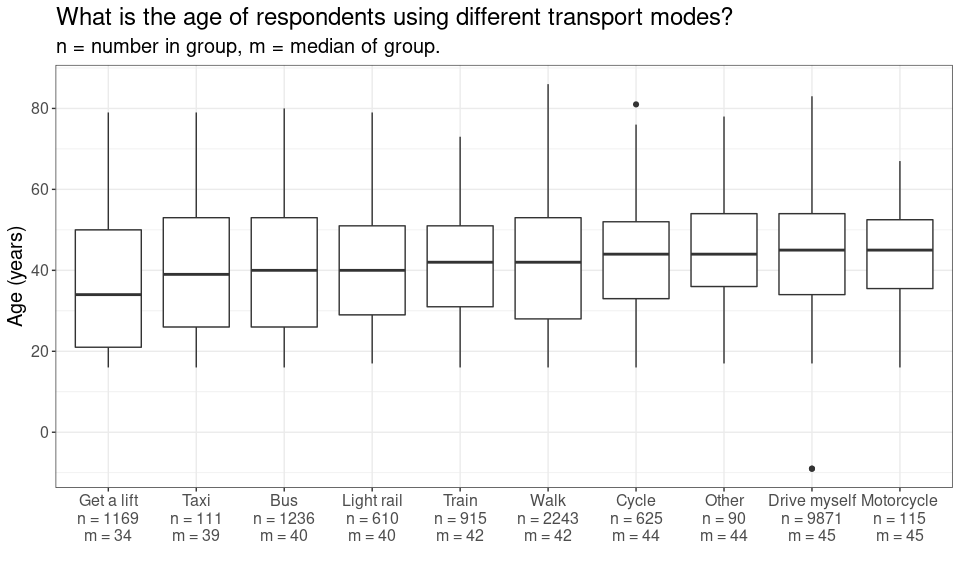
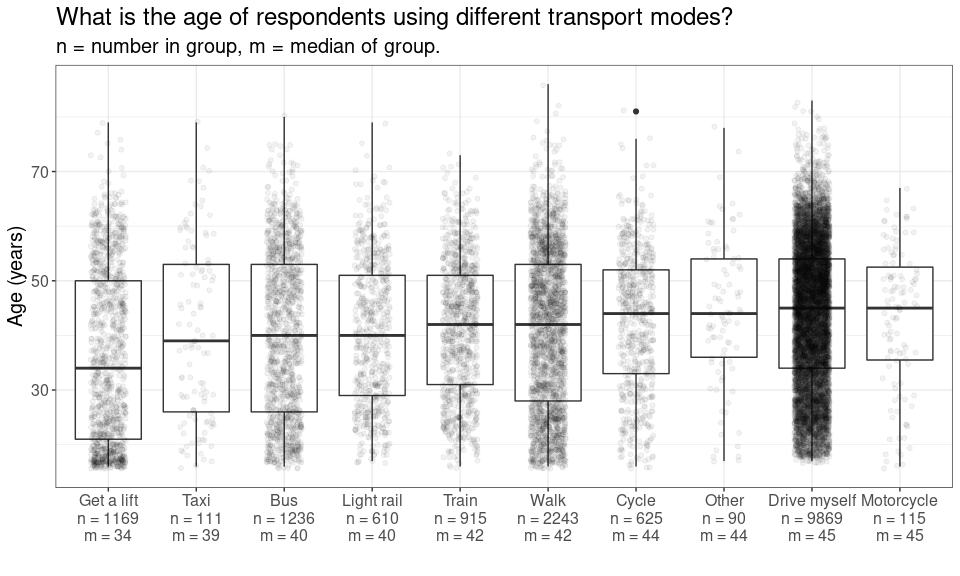
Explanation text and relationship graphs

diff --git a/transport_presentation_deets.md b/transport_presentation_deets.md
@@ -1,4 +1,4 @@
-Transport variable explore
+Transport mode analysis
 ================
 Mike Spencer
 09/12/2021
@@ -18,9 +18,10 @@ theme_temp = function(){
 
 ## Intro
 
-This is an RMarkdown document, summarising variables of interest. I’m
-considering the relationship between income and mode of travel. For
-example, is cycling the preserve of the affluent middle class?
+This is an RMarkdown document, presenting and discussing analysis of
+transport mode data. I’m considering the relationship between income and
+mode of travel. For example, is cycling the preserve of the affluent
+middle class?
 
 Understanding Society variable guide:
 <https://www.understandingsociety.ac.uk/documentation/mainstage/dataset-documentation?search_api_views_fulltext=salary>.
@@ -30,12 +31,12 @@ Understanding Society variable guide:
 Only employed people considered, i.e. self employed excluded. This is
 due to the increase in data complexity of including both types.
 
-Non-commuting journeys are not included in the Understanding Society
+Non-commuting journeys are not available in the Understanding Society
 dataset.
 
 ``` r
 df = read_dta("~/Cloud/personal/gofcoe/understanding_society/6614stata_B17CC6790677EF32F72CE50881AE98E1B9FC1F79133B07B63B353396D3AB917A_V1/UKDA-6614-stata/stata/stata13_se/ukhls_w10/j_indresp.dta") %>% 
-  select(pidp, j_pdvage,
+  select(pidp, j_pdvage, j_sex,
          contains("j_wktrv"), j_workdis,
          j_fimnnet_dv,
          j_benbase1, j_benbase2, j_benbase4)
@@ -77,6 +78,7 @@ df = df %>%
 
 ``` r
 x = df %>% 
+  filter(j_pdvage > 0) %>% 
   select(contains("j_wktrv"), j_pdvage) %>% 
   pivot_longer(!j_pdvage) %>% 
   filter(value == 1) %>% 
@@ -94,6 +96,7 @@ x %>%
   mutate(lab = fct_reorder(lab, median_in)) %>% 
   ggplot(aes(lab, j_pdvage)) +
   geom_boxplot() +
+  geom_jitter(width = 0.2, alpha = 0.05) +
   labs(title = "What is the age of respondents using different transport modes?",
        subtitle = "n = number in group, m = median of group.",
        x = "",
@@ -102,6 +105,11 @@ x %>%
 ```
 
 ![](transport_presentation_deets_files/figure-gfm/age-1.png)<!-- -->
+
+-   Younger people are more likely to get a lift to work. Getting a lift
+    is an inherently dependent activity, which is asociated with being
+    young.
+-   Motorbike commuting may increase in midlife ;-)
 
 ### Replaceable journeys
 
@@ -154,7 +162,8 @@ x %>%
   left_join(y) %>% 
   mutate(lab = fct_reorder(lab, median_in)) %>% 
   ggplot(aes(lab, j_fimnnet_dv)) +
-  geom_boxplot() +
+  geom_boxplot(outlier.alpha = 0) +
+  geom_jitter(width = 0.2, alpha = 0.05) +
   coord_cartesian(ylim = c(0, 4000)) +
   labs(title = "What is the monthly income of different transport modes?",
        subtitle = "n = number in group, m = median of group.\nNote y axis is cropped.",
@@ -164,3 +173,62 @@ x %>%
 ```
 
 ![](transport_presentation_deets_files/figure-gfm/income-1.png)<!-- -->
+
+-   3 step changes:
+    -   Get a lift is a dependent activity
+    -   Driving/cycling/motor cycling more automous than bus/taxi travel
+    -   Light rail and train access to more prestigious, city centre
+        jobs.
+-   This type of analysis may support transport poverty work - areas
+    with less transport links reduce job options.
+
+### Relationships
+
+``` r
+df %>% 
+  filter(j_pdvage > 0) %>% 
+  select(contains("j_wktrv"), j_fimnnet_dv, j_pdvage) %>% 
+  pivot_longer(contains("j_wktrv")) %>% 
+  left_join(tran_opt) %>% 
+  filter(value == 1 &
+           !is.na(val)) %>% 
+  ggplot(aes(j_pdvage, j_fimnnet_dv)) +
+  geom_point(alpha = 0.15) +
+  stat_smooth() +
+  facet_wrap(~val) +
+  scale_y_continuous(labels = scales::comma) +
+  labs(title = "How does income relate to age?",
+       x = "Age (years)",
+       y = "Monthly income (£)") +
+  theme_temp()
+```
+
+![](transport_presentation_deets_files/figure-gfm/income%20and%20age-1.png)<!-- -->
+
+``` r
+df %>% 
+  filter(j_pdvage > 0) %>% 
+  select(contains("j_wktrv"), j_fimnnet_dv, j_workdis) %>% 
+  pivot_longer(contains("j_wktrv")) %>% 
+  left_join(tran_opt) %>% 
+  filter(value == 1 &
+           !is.na(val)) %>% 
+  ggplot(aes(j_workdis, j_fimnnet_dv)) +
+  geom_point(alpha = 0.15) +
+  stat_smooth() +
+  facet_wrap(~val) +
+  scale_y_continuous(labels = scales::comma) +
+  coord_cartesian(xlim = c(0, 100)) +
+  labs(title = "How does distance to work relate to age?",
+       subtitle = "Distance axis cropped. Some people may use multiple transport modes",
+       x = "Distance (miles)",
+       y = "Monthly income (£)") +
+  theme_temp()
+```
+
+![](transport_presentation_deets_files/figure-gfm/income%20and%20distance-1.png)<!-- -->
+
+-   On average, people seem to travel further for better paid work.
+-   In practice, I think people are unwilling to travel further for less
+    well paid work. i.e. income does seem to increase with greater
+    distance, but lower incomes drop out.
